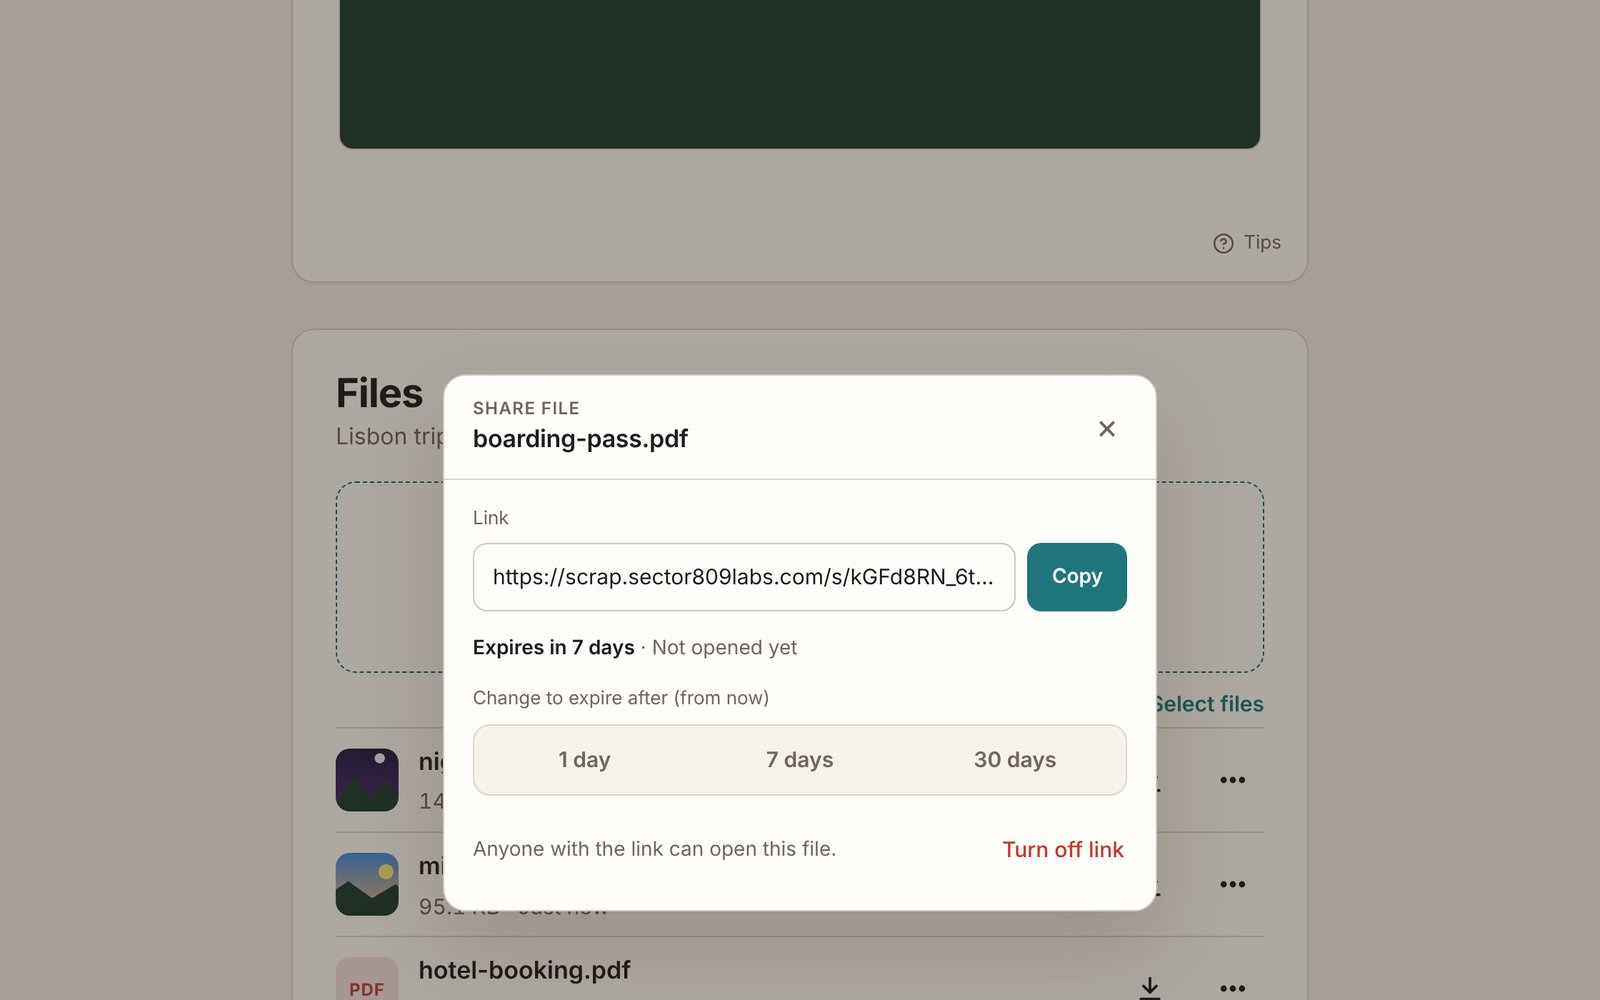
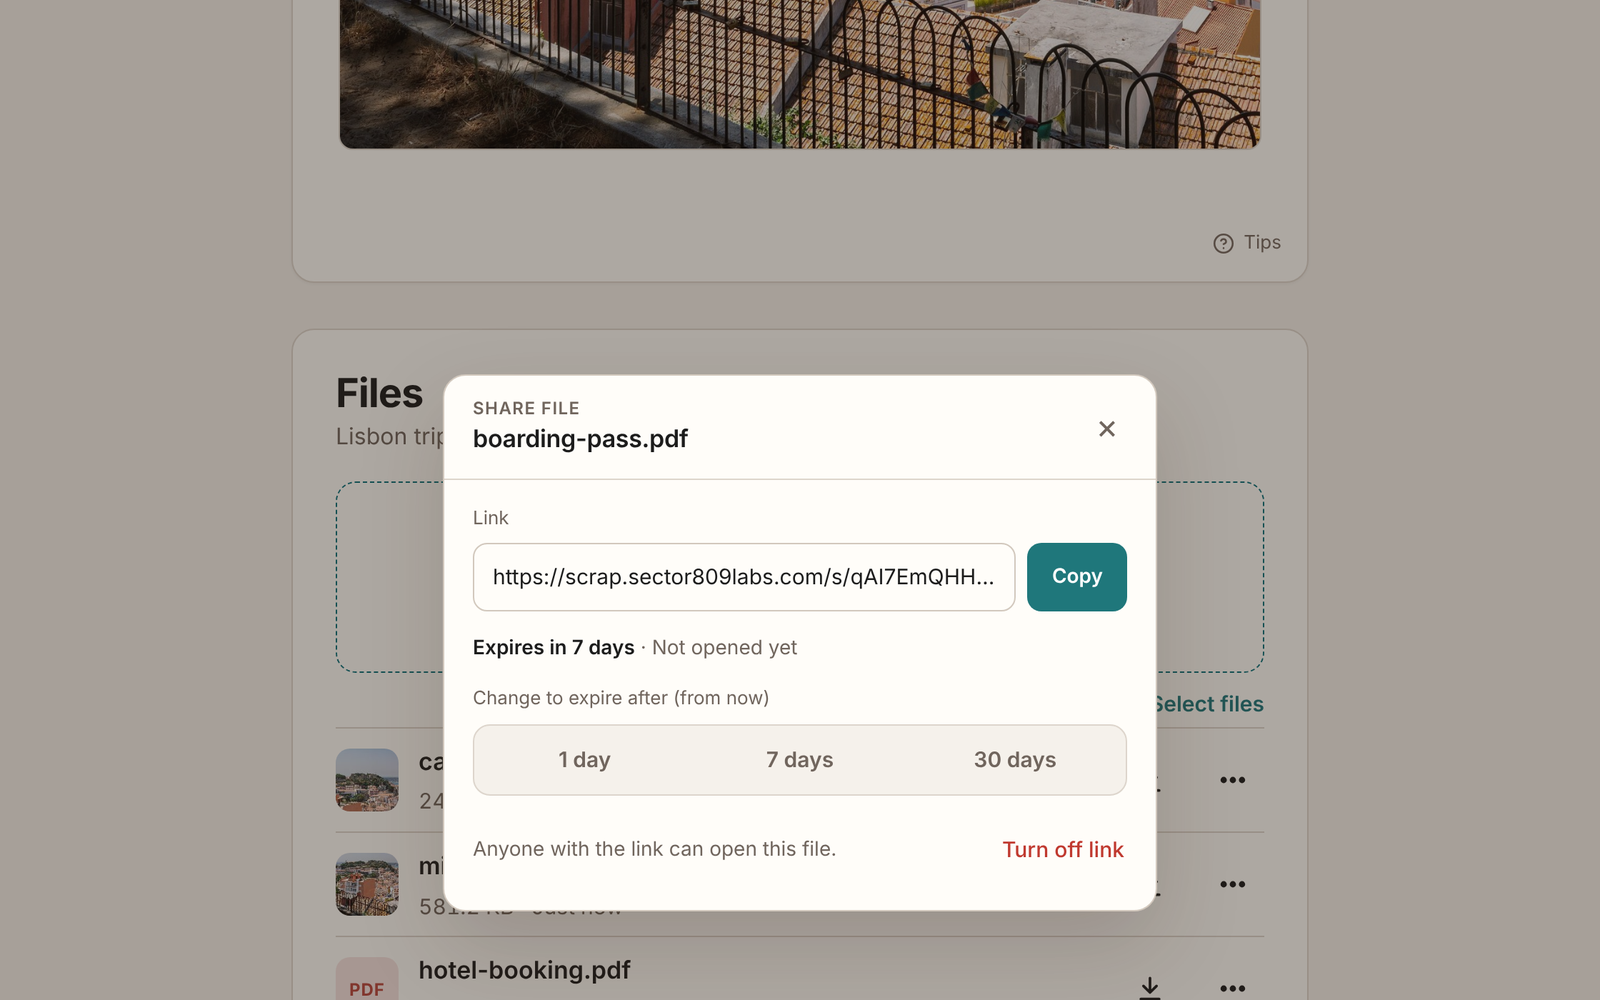
Marketing kit: real Lisbon photo in the screenshots, with credit
The demo sheet's photo and files now use a CC BY 4.0 photo of Lisbon
from Miradouro da Senhora do Monte (Dale Cruse), credited in the brief.

Claude-Session: https://claude.ai/code/session_01VK5HTc9MerD38QGP7KmrJe

Changed region(s): [[0.1875, 0.0, 0.8125, 0.155], [0.1875, 0.744, 0.2812, 0.93], [0.5312, 0.558, 0.625, 0.589]]

diff --git a/marketing/sector809labs/README.md b/marketing/sector809labs/README.md
@@ -27,8 +27,11 @@ accents (see "Brand").
 - **Keep the privacy claims exactly as written.** They're true to how the app
   works. Don't strengthen them (for example, don't write "military-grade",
   "unhackable" or "zero-knowledge").
-- **The screenshots use a demo account with made-up content.** That's fine to
-  show as is.
+- **The screenshots use a demo account with made-up notes and files.** That's
+  fine to show as is. The Lisbon photo in them is real and needs a credit on
+  the page (see "Photo credit").
+- **Photo credit is required.** Put the credit line from "Photo credit" in
+  small type near the hero, or in the page footer.
 
 ## Links
 
@@ -206,6 +209,19 @@ add which plan includes it.)
   - `horizontal-white.svg`: the same for dark backgrounds.
   - `mark-primary.svg` / `mark-white.svg`: the notepad mark alone, for cards and small spaces.
   - Leave clear space around the logo of at least the height of the mark's top binding. Don't recolor, stretch, add shadows or put it on a busy photo.
+
+## Photo credit
+
+The Lisbon photo inside the screenshots, hero and card images is licensed
+under CC BY 4.0, which allows commercial use as long as it's credited. It has
+been cropped. Use this line on the ScrapSheet page:
+
+> Lisbon photo in screenshots: "Panoramic View from Miradouro da Senhora do
+> Monte in Lisbon" by Dale Cruse, [CC BY 4.0](https://creativecommons.org/licenses/by/4.0/),
+> cropped. [Source](https://commons.wikimedia.org/wiki/File:Panoramic_View_from_Miradouro_da_Senhora_do_Monte_in_Lisbon_(54742879994).jpg)
+
+Wherever the card image (`card-1200x750`) is used without the ScrapSheet page
+nearby, add the same credit in the site footer or credits page.
 
 ## Files
 
